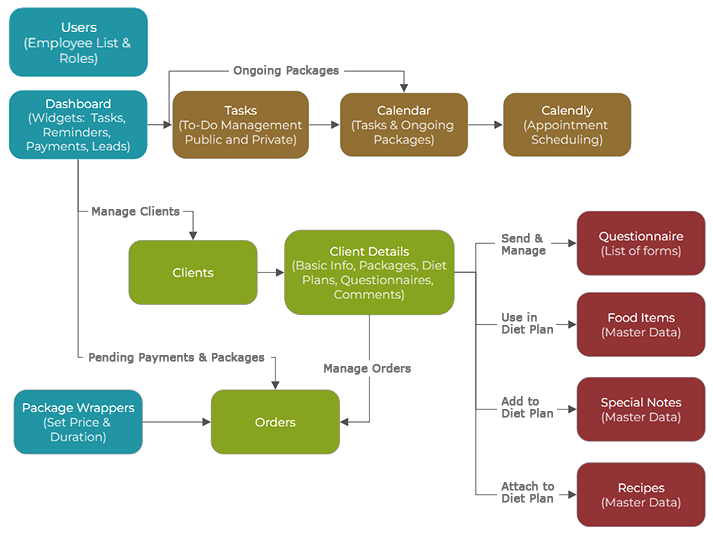
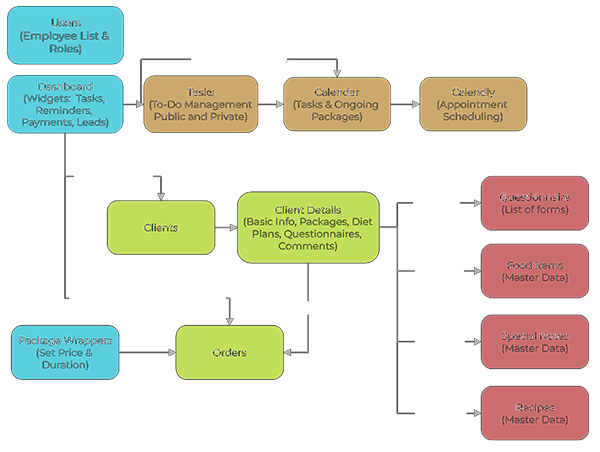
New: Updated content for dynamic diet

diff --git a/data/projects.js b/data/projects.js
@@ -56,8 +56,10 @@ const projects = [
             <p>
               Additionally, we enabled non-technical teams, such as content
               writers, to efficiently manage content in ContentStack with
-              minimal developer intervention by creating custom plugins and
-              extensions.
+              minimal developer intervention by creating custom plugins and{' '}
+              <span className={clsx(styles['bold'], styles['highlight'])}>
+                extensions.
+              </span>
             </p>
           </section>
         </main>
@@ -69,8 +71,10 @@ const projects = [
           <h2 className={styles.sectionTitle}>Project Background</h2>
           <p>
             The existing CMS had severe customization limits. Small changes
-            required developer intervention, slowing down workflows. Expanding
-            to multiple locales made it even harder to maintain consistency.
+            required developer intervention,{' '}
+            <strong className={styles.reveal}>slowing down workflows.</strong>{' '}
+            Expanding to multiple locales made it even harder to maintain
+            consistency.
           </p>
           <Image
             src='/assets/projects/nuskin/limitations.png'
@@ -82,7 +86,10 @@ const projects = [
           />
           <p>
             Goal: Build a flexible, scalable, and multilingual platform,
-            empowering business teams to manage content independently.
+            empowering business teams to{' '}
+            <strong className={styles.reveal}>
+              manage content independently.
+            </strong>
           </p>
           <Image
             src='/assets/projects/nuskin/cms-comparison.png'
@@ -472,108 +479,86 @@ const projects = [
     sections: (
       <>
         <section id={styles['my-role']}>
+          <h2 className={styles.sectionTitle}>Project Background</h2>
+          <p>
+            Dieticians & trainers were relying on manual PDF creation, email
+            sending, and spreadsheets to track{' '}
+            <strong className={styles.reveal}>
+              client progress and potential leads.
+            </strong>{' '}
+            This was slow, error-prone, and consumed a lot of admin time.
+          </p>
+          <p className={styles['mt-10']}>
+            Goal: Automate client management with{' '}
+            <strong className={styles.reveal}>dynamic diet plans</strong>{' '}
+            real-time analytics, streamlined booking, and secure data handling.
+          </p>
+          <Image
+            src='/assets/projects/diet-crm/flowchart.png'
+            alt='Dynamic diet flowchart'
+            height={452}
+            width={600}
+            className={styles.caseStudyImage}
+            priority
+          />
+          <p
+            className={clsx(
+              styles['underline'],
+              styles['mb-10'],
+              styles['figure-caption']
+            )}
+          >
+            Fig 1: Dynamic Diet Application flowchart
+          </p>
+        </section>
+        <section id={styles['my-role']}>
           <h2 className={styles.sectionTitle}>My Role</h2>
           <p>
             <strong className={styles.reveal}>
-              I led the end-to-end development of this project
+              From requirement gathering{' '}
             </strong>{' '}
-            from initial requirement gathering and client communication to final
-            delivery and post-launch maintenance.{' '}
+            to final delivery and post-launch maintenance. I was the primary
+            point of contact for all technical discussions, collaborating
+            closely with stakeholders across different phases to shape the{' '}
             <strong className={styles.reveal}>
-              I was the primary point of contact for all{' '}
+              product vision into a working solution.
             </strong>
-            technical discussions, collaborating closely with stakeholders
-            across different phases to shape the product vision into a working
-            solution.
           </p>
           <ul className={styles.list}>
             <li className={styles['list-item']}>
               <Bullet />
-              UI/UX design and frontend development
+              Architected the complete front-end solution.
             </li>
             <li className={styles['list-item']}>
               <Bullet />
-              Direct client interaction for feedback loops
+              Developed PDF and email automation workflows.
             </li>
             <li className={styles['list-item']}>
               <Bullet />
-              Feature planning, estimation, and prioritization
-            </li>
-            <li className={styles['list-item']}>
-              <Bullet />
-              Integrations and deployment
-            </li>
-            <li className={styles['list-item']}>
-              <Bullet />
-              Ongoing bug fixes and improvements
+              Integrated appointment scheduling.
             </li>
           </ul>
-        </section>
-
-        <section id={styles['problem']}>
-          <h2 className={styles.sectionTitle}>The Problem</h2>
-          <p>
-            The consultancy was managing client information, orders, and
-            follow-ups manually across spreadsheets and communication platforms.
-            This led to:
+          <Image
+            src='/assets/projects/diet-crm/pdf-email.webp'
+            alt='Email and PDF flow'
+            height={338}
+            width={600}
+            className={clsx(styles['caseStudyImage'], styles['round-border'])}
+            priority
+          />
+          <p
+            className={clsx(
+              styles['underline'],
+              styles['mb-10'],
+              styles['figure-caption']
+            )}
+          >
+            Fig 2: Pdf and Email automation workflow
           </p>
-          <ul className={styles.list}>
-            <li className={styles['list-item']}>
-              <Bullet />
-              Inefficient tracking of client progress and consultations
-            </li>
-            <li className={styles['list-item']}>
-              <Bullet />
-              <span className={styles.reveal}>Delayed communication</span> of
-              diet plans and updates
-            </li>
-            <li className={styles['list-item']}>
-              <Bullet />
-              No centralized system for viewing or analyzing client data
-            </li>
-            <li className={styles['list-item']}>
-              <Bullet />
-              Scattered workflows across nutritionists, order handlers, and
-              administrators
-            </li>
-          </ul>
-        </section>
-
-        <section id={styles['solution']}>
-          <h2 className={styles.sectionTitle}>The Solution</h2>
-          <p>We designed and developed a tailored CRM platform that:</p>
-          <ul className={styles.list}>
-            <li className={styles['list-item']}>
-              <Bullet />
-              Centralized all client data in a secure, accessible system
-            </li>
-            <li className={styles['list-item']}>
-              <Bullet />
-              Automated order processing and diet plan distribution
-            </li>
-            <li className={styles['list-item']}>
-              <Bullet />
-              Enabled filtered views of clients by status, type, or assigned
-              consultant
-            </li>
-            <li className={styles['list-item']}>
-              <Bullet />
-              Integrated email functionality to send rich HTML + PDF attachments
-            </li>
-            <li className={styles['list-item']}>
-              <Bullet />
-              Provided a scalable, modular structure to evolve with business
-              needs
-            </li>
-          </ul>
         </section>
 
         <section id={styles['my-work']}>
           <h2 className={styles.sectionTitle}>Modules I Developed</h2>
-          <p>
-            I contributed to and led development of multiple critical modules,
-            including:
-          </p>
           <ul className={styles.list}>
             <li className={styles['list-item']}>
               <Bullet />
@@ -623,6 +608,40 @@ const projects = [
               Food Item Database: Master list of diet items for plan creation
             </li>
           </ul>
+          <Image
+            src='/assets/projects/diet-crm/active-packages.png'
+            alt='active packages'
+            height={452}
+            width={718}
+            className={styles.caseStudyImage}
+            priority
+          />
+          <p
+            className={clsx(
+              styles['underline'],
+              styles['mb-10'],
+              styles['figure-caption']
+            )}
+          >
+            Fig 3: Active plans at a glance
+          </p>
+          <Image
+            src='/assets/projects/diet-crm/invoice.png'
+            alt='invoice management system'
+            height={452}
+            width={612}
+            className={styles.caseStudyImage}
+            priority
+          />
+          <p
+            className={clsx(
+              styles['underline'],
+              styles['mb-10'],
+              styles['figure-caption']
+            )}
+          >
+            Fig 4: Robust invoice management system
+          </p>
         </section>
 
         <section id={styles['impact']}>
@@ -669,11 +688,10 @@ const projects = [
       </>
     ),
     images: [
-      '/assets/projects/quality-track/1.webp',
-      '/assets/projects/quality-track/2.webp',
-      '/assets/projects/quality-track/3.webp',
-      '/assets/projects/quality-track/4.webp',
-      '/assets/projects/quality-track/5.webp',
+      '/assets/projects/diet-crm/1.png',
+      '/assets/projects/diet-crm/2.png',
+      '/assets/projects/diet-crm/3.png',
+      '/assets/projects/diet-crm/4.png',
     ],
     techStack: [
       { src: NextJsIcon, alt: 'Next JS' },

diff --git a/styles/project.module.css b/styles/project.module.css
@@ -431,14 +431,6 @@
   margin-bottom: 10px !important;
 }
 
-.out-link {
-  width: 100%;
-  color: #ff7a7a;
-  text-align: center;
-  margin-bottom: 10px;
-  text-shadow: none;
-}
-
 .round-border {
   border-radius: 8px;
 }
@@ -689,6 +681,10 @@
 
 .mt-4 {
   margin-top: 4px;
+}
+
+.mt-10 {
+  margin-top: 10px;
 }
 
 .my-4 {
@@ -1024,4 +1020,13 @@
     justify-content: center;
     margin-bottom: 60px;
   }
+}
+
+.out-link {
+  width: 100%;
+  display: block;
+  color: #ff6868;
+  text-align: center;
+  margin-bottom: 20px;
+  text-shadow: none;
 }

diff --git a/app/globals.css b/app/globals.css
@@ -359,7 +359,7 @@ a.hover-font:hover {
 }
 
 ._2-bg {
-  background: #14032a;
+  background: #521818;
 }
 
 ._3-bg {
